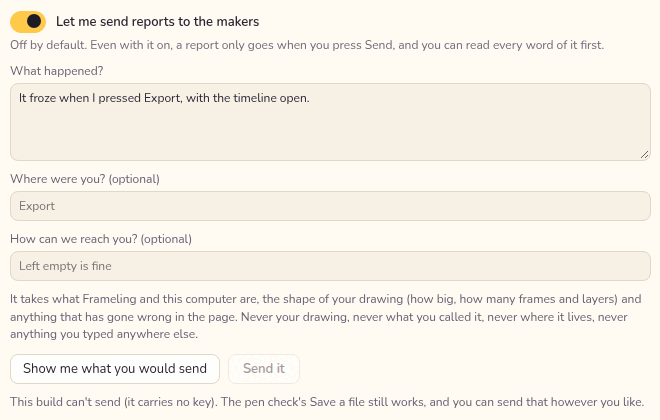
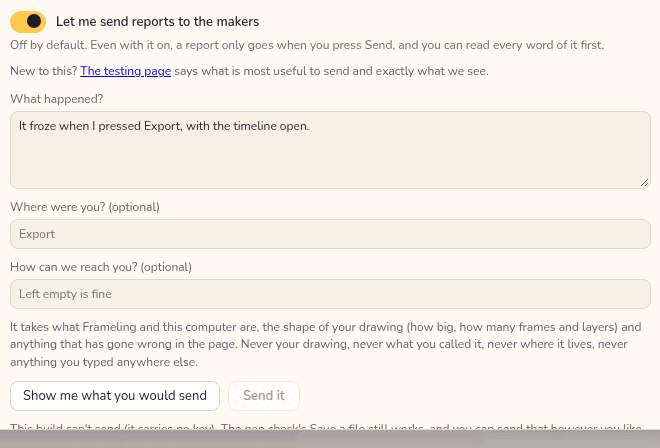
Beta reports: the testing page is linked from the panel, the help and a beta build's About
The page is public and read-only, so a tester opens it with no login and sees only that page.

- Preferences > Diagnostics points at it above the switch, for anyone wondering what is worth sending.
- The help topic links it as well, for people who find the topic first.
- About says "This is a beta build" with the link, and only in a build that carries a key, so an ordinary build
  never mentions it.

diff --git a/src/beta/BetaPanel.tsx b/src/beta/BetaPanel.tsx
@@ -7,7 +7,7 @@ import { getPrefs, setPrefs, usePrefs } from '../ui/prefs';
 import { toast } from '../ui/toast';
 import { gatherEnv } from '../tablet/check/state';
 import { buildReport, docShape, reportText, type IngestReport } from './report';
-import { canSend, SEND_WORDS, sendReport } from './send';
+import { BETA_PAGE, canSend, SEND_WORDS, sendReport } from './send';
 import { recentProblems } from './problems';
 import './beta.css';
 
@@ -60,6 +60,13 @@ export function BetaPanel() {
         onChange={(v) => setPrefs({ betaReports: v })}
         hint="Off by default. Even with it on, a report only goes when you press Send, and you can read every word of it first."
       />
+      <p className="tb-note">
+        New to this?{' '}
+        <a href={BETA_PAGE} target="_blank" rel="noreferrer noopener">
+          The testing page
+        </a>{' '}
+        says what is most useful to send and exactly what we see.
+      </p>
       {!on ? (
         <p className="tb-note">Frameling never sends anything by itself. There is no counting of what you do, no ping when it starts, and nothing at all leaves this computer unless you ask it to.</p>
       ) : (

diff --git a/src/ui/About.tsx b/src/ui/About.tsx
@@ -4,6 +4,7 @@ import { Logo } from './icons';
 import { Quill, useQuillShown } from './mascot';
 import { Modal } from './Modal';
 import { closeAbout, openHelp, overlays } from './overlays';
+import { BETA_PAGE, canSend } from '../beta/send';
 
 export function AboutDialog() {
   const open = overlays.use((o) => o.about);
@@ -24,6 +25,16 @@ function About() {
         {v?.electron && (
           <p className="ui-about-small">
             Electron {v.electron}, Chrome {v.chrome}
+          </p>
+        )}
+        {/* Only a beta build can send reports, so only a beta build points at the testing page. */}
+        {canSend() && (
+          <p className="ui-about-small">
+            This is a beta build.{' '}
+            <a href={BETA_PAGE} target="_blank" rel="noreferrer noopener">
+              The testing page
+            </a>{' '}
+            says how to tell us what happened.
           </p>
         )}
       </div>

diff --git a/src/beta/help.bodies.ts b/src/beta/help.bodies.ts
@@ -19,5 +19,7 @@ export const bodies: Record<string, string> = {
 - Only a beta build can send. An ordinary build has no key in it, so the button says so and the pen check's **Save a file** is there instead.
 - The report goes to the makers' board and nowhere else. The key a beta build carries can only add a report: it cannot read the board, and it cannot read back anything it has sent.
 
+**The testing page.** [Everything a tester needs is on one page](https://project-boards.shanegadsby.com/s/qUR_fOzbJGN9T1_ItQ3HEJ6u): getting the build open on each kind of computer, what is most useful to send, and what we do and don't see. No login, nothing to join.
+
 help:pen-check help:preferences`,
 };

diff --git a/src/beta/send.ts b/src/beta/send.ts
@@ -11,6 +11,12 @@ import { reportFits, reportText } from './report';
 
 declare const __FRAMELING_INGEST__: { url: string; key: string } | undefined;
 
+/**
+ * The testers' page: everything a beta tester needs, on one page that needs no login. Public, read-only, and the
+ * only page the link opens. Written as the board doc `beta-testing` and shared from the board.
+ */
+export const BETA_PAGE = 'https://project-boards.shanegadsby.com/s/qUR_fOzbJGN9T1_ItQ3HEJ6u';
+
 export interface Ingest {
   url: string;
   key: string;
